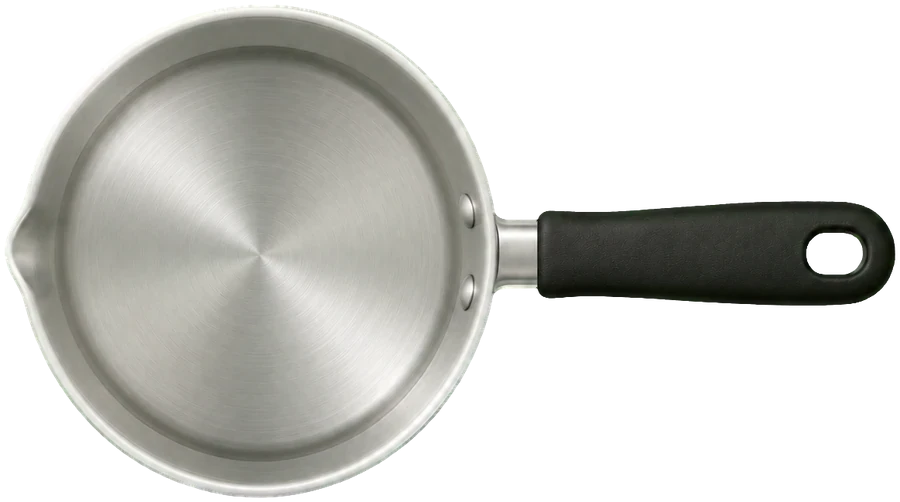
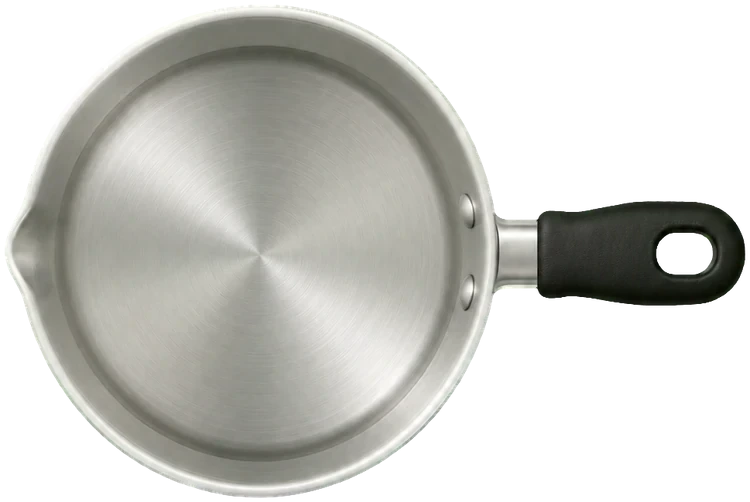
Zafar's 11 Nov picks: the grill's handles cut clean (CK-87); eggs' redrawn pot on, its handle the pan's length (CK-88); baking's bowl a work surface, not the main thing (contract-115)
Claude-Session: https://claude.ai/code/session_014xb3kSEqyUTbvHCABDzeLo

diff --git a/docs/process/regressions.md b/docs/process/regressions.md
@@ -557,6 +557,8 @@ From `docs/feedback/s12-polish-2026-10-22.md`. Rows reopened from this feedback 
 | SH-262 | The speaker button on the word pill reads as "hear it" to a young child (Zafar, 11 Nov: "they didn't really understand about pressing the speaker button to hear it out loud. Maybe the speaker buttons could be a bit better, but ... they were playing on my phone ... the big URL banner") | **waiting on Zafar** (an observation; a design idea to bring him: a bigger speaker, a first-time light on it once) | eye | Zafar, 11 Nov (child test) |
 | SH-263 | Remaking a dish after a mistake upsets a young child (Zafar, 11 Nov: "She did get upset when she had to remake the tea, and she said, 'I don't want to remake it anymore.'"; non-negotiable 7) | **waiting on Zafar** (an observation; options to bring him: fix the step instead of starting again, or a softer redo at L1) | eye | Zafar, 11 Nov (child test) |
 | CK-86 | Corn's and sekelo's grill screens as mocked in ChatGPT (sources/art/s19-mocks2/results/A2-corn-2-improved.png, A1-sekelo-2-improved.png): the silver tray(s) beside the grill the grill's height, one tidy rectangle filling the play area with padding, the cob or skewer the same size and way round on the tray as on the grill (Zafar, 11 Nov: "The Grills layout looks really bad. It doesn't feel like it's the version we mocked up in ChatGPT") | **to fix: code** | auto: corn and sekelo L1-L4 at the four sizes; eye: beside the mock | Zafar, 11 Nov |
+| CK-87 | The grill's cut-out: the gaps inside its handles and its shadow at the right were left solid grey, not see-through (Zafar, 11 Nov: "cutting out needs fixing", a crop of the right handle) | **to fix: check** (cut in assets/cook/items/v4/kit/grill.webp: the grey inside both handle loops and the shadow cleared; to see in corn and sekelo) | auto: corn and sekelo L1 at the four sizes; eye: the handles on a dark ground | Zafar, 11 Nov |
+| CK-88 | Eggs' pot: the redrawn top-down pot replaces chai's pan, its handle shortened to the length of the frying pan's (Zafar, 11 Nov: "pot is good but the left pot needs its handle shortened to match the length of the handle on the right pot") | **to fix: check** (the grip 150 px shorter in pot-water and pot-empty, its reach 1.98 as the pan's; scene.potTrial on) | auto: eggs L1-L4 at the four sizes; eye: the two handles side by side | Zafar, 11 Nov |
 | CK-78 | Chop (its wide first light is right, STD-E2-08a, Zafar 10 Nov): well done shows the chopped garlic with its asker, not three empty trays; the whole garlic top-down like its halves; no chip under the settings gear at the first move; Nani's box has its face (the eye judge, 10 Nov) | **to fix: code** | auto: chop L1-L4 at the four sizes | eye judge beside chai L1, 10 Nov (build/reports/s19-checks-review.md, build/reports/s19-four-beside-chai.md) |
 | CK-79 | Daar: the onion is one colour on the card and the board; the order card's rows are never cut; the knife, bowl and pills don't sit on each other; the chopped onion is not a speck beside the pot (the eye judge, 10 Nov) | **to fix: code** | auto: daar L1-L4 at the four sizes | eye judge beside chai L1, 10 Nov (build/reports/s19-checks-review.md, build/reports/s19-four-beside-chai.md) |
 | CK-80 | Corn: makai and hakro get their card and pill before the end review counts them learned; the lit bowl's ring doesn't cover its pill; the grill scene has its face circle (the eye judge, 10 Nov) | **to fix: code** | auto: corn L1-L4 at the four sizes | eye judge beside chai L1, 10 Nov (build/reports/s19-checks-review.md, build/reports/s19-four-beside-chai.md) |
